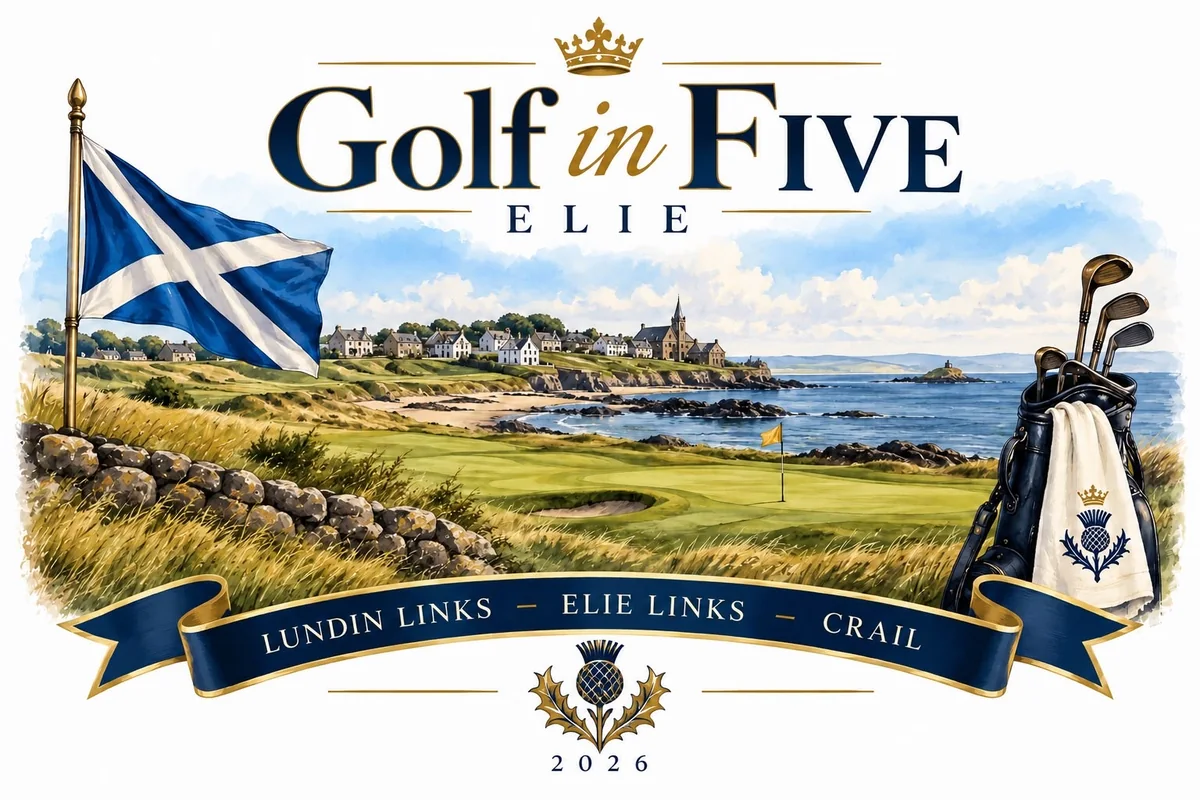
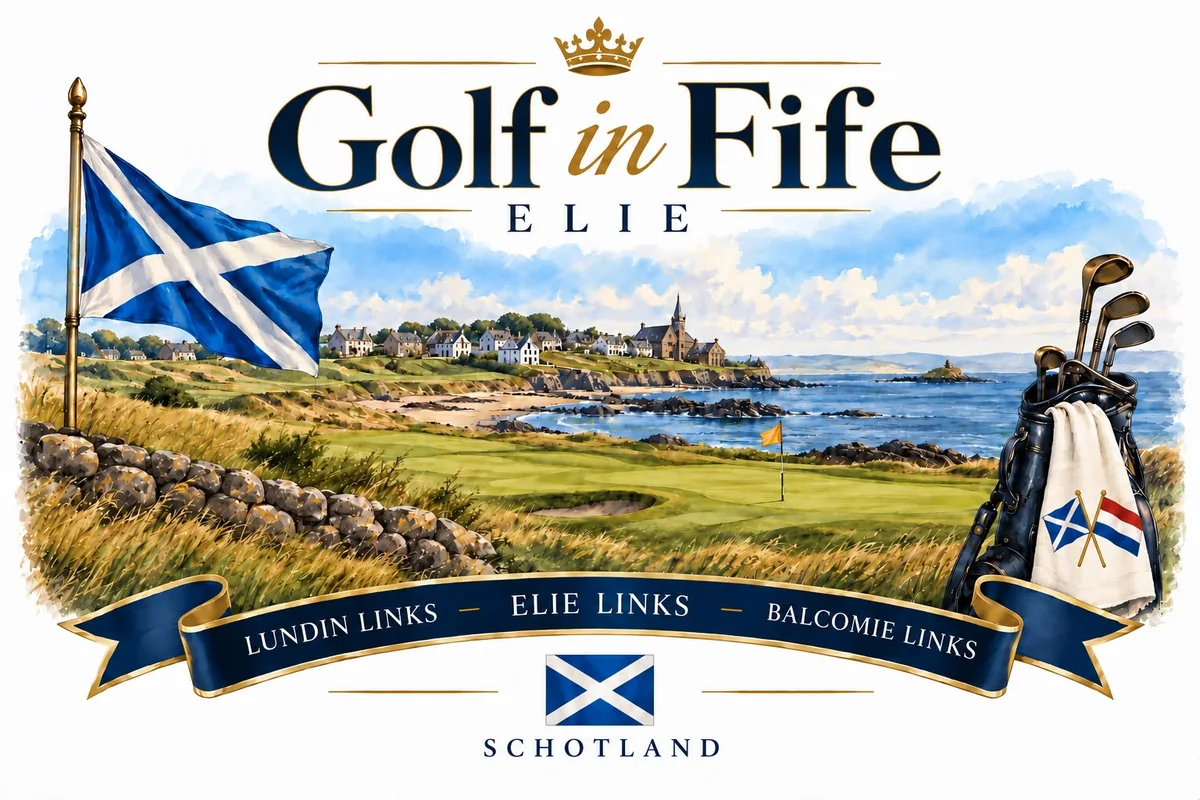
Add files via upload

diff --git a/index.html b/index.html
@@ -7,12 +7,12 @@
 <meta name="apple-mobile-web-app-capable" content="yes">
 <meta name="mobile-web-app-capable" content="yes">
 <meta name="apple-mobile-web-app-status-bar-style" content="black-translucent">
-<meta name="apple-mobile-web-app-title" content="Golf in Five">
+<meta name="apple-mobile-web-app-title" content="Golf in Fife">
 <meta name="format-detection" content="telephone=no">
 <link rel="manifest" href="manifest.webmanifest">
 <link rel="icon" href="favicon.png" type="image/png">
 <link rel="apple-touch-icon" href="apple-touch-icon.png">
-<title>Golf in Five</title>
+<title>Golf in Fife</title>
 <link rel="preconnect" href="https://fonts.googleapis.com">
 <link rel="preconnect" href="https://fonts.gstatic.com" crossorigin>
 <link href="https://fonts.googleapis.com/css2?family=Cormorant+Garamond:ital,wght@0,500;0,600;0,700;1,500;1,600&family=Jost:wght@400;500;600&display=swap" rel="stylesheet">
@@ -462,7 +462,7 @@ input.t,select.t{width:100%;border:1px solid var(--hair);border-radius:10px;padd
   <div class="top-in">
     <div class="brand"><svg class="hflag" viewBox="0 0 64 48" role="img" aria-label="Schotse vlag"><defs><clipPath id="fc"><path d="M8 7C21 2.5 34 11 60 6.5V35C34 39.5 21 31 8 35.5Z"/></clipPath><linearGradient id="fs" x1="0" x2="1" y1="0" y2="0"><stop offset="0" stop-color="#000" stop-opacity="0"/><stop offset=".32" stop-color="#000" stop-opacity=".16"/><stop offset=".6" stop-color="#fff" stop-opacity=".14"/><stop offset=".85" stop-color="#000" stop-opacity=".12"/><stop offset="1" stop-color="#000" stop-opacity="0"/></linearGradient></defs><rect x="4.6" y="4" width="2.6" height="42" rx="1.2" fill="#C9A34A"/><circle cx="5.9" cy="3.6" r="2.4" fill="#D9B45A"/><g clip-path="url(#fc)"><rect x="8" y="0" width="52" height="42" fill="#005EB8"/><path d="M8 7L60 35M60 6.5L8 35.5" stroke="#fff" stroke-width="6.5"/><rect x="8" y="0" width="52" height="42" fill="url(#fs)"/></g><path d="M8 7C21 2.5 34 11 60 6.5V35C34 39.5 21 31 8 35.5Z" fill="none" stroke="#fff" stroke-width="1.1" stroke-opacity=".9"/></svg>
 <div>
-      <h1 style="white-space:nowrap">Golf in Five</h1>
+      <h1 style="white-space:nowrap">Golf in Fife</h1>
       <div class="sub">Fife, 2–4&nbsp;oktober 2026</div>
     </div></div>
     <button class="pill" id="sync" aria-live="polite"><i></i><span>Laden</span></button>
@@ -701,13 +701,14 @@ function matchState(m, r){
   if (!done && thru===18){ done=true; winner = up>0?'A':up<0?'B':'H'; text = up ? `${Math.abs(up)} up` : 'Gelijk'; }
   if (!done) text = thru ? (up ? `${Math.abs(up)} up` : 'AS') : '';
   const leader = up>0?'A':up<0?'B':(thru?'H':null);
-  const pts = done ? (winner==='A'?[1,0]:winner==='B'?[0,1]:[.5,.5]) : [0,0];
-  const proj = done ? pts : (leader==='A'?[1,0]:leader==='B'?[0,1]:leader==='H'?[.5,.5]:[0,0]);
+  const w = m.type==='fourball' ? 2 : 1;   /* elke speler van het winnende duo levert 1 punt op */
+  const pts = done ? (winner==='A'?[w,0]:winner==='B'?[0,w]:[w/2,w/2]) : [0,0];
+  const proj = done ? pts : (leader==='A'?[w,0]:leader==='B'?[0,w]:leader==='H'?[w/2,w/2]:[0,0]);
   return {valid:true, thru, up, done, winner, text, holes, leader, pts, proj, strokes};
 }
 function teamTotals(){
   let a=0,b=0,pa=0,pb=0,n=0,live=false;
-  [1,2,3].forEach(r=>matches(r).forEach(m=>{ const s=matchState(m,r); if (!s.valid) return; n++;
+  [1,2,3].forEach(r=>matches(r).forEach(m=>{ const s=matchState(m,r); if (!s.valid) return; n += m.type==='fourball'?2:1;
     a+=s.pts[0]; b+=s.pts[1]; pa+=s.proj[0]; pb+=s.proj[1]; if (s.thru && !s.done) live=true; }));
   return {a,b,pa,pb,n,live,need:n/2+0.5};
 }
@@ -762,7 +763,7 @@ function viewTeams(){
     <div class="rc-score num"><b style="color:${TEAMCOL.A}">${fmtPts(t.a)}</b><i></i><b style="color:${TEAMCOL.B}">${fmtPts(t.b)}</b></div>
     <div class="rc-bar"><span style="left:0;width:${pctA}%;background:${TEAMCOL.A}"></span><span class="pj" style="left:${pctA}%;width:${ppA}%;background:${TEAMCOL.A}"></span>
       <span style="right:0;width:${pctB}%;background:${TEAMCOL.B}"></span><span class="pj" style="right:${pctB}%;width:${ppB}%;background:${TEAMCOL.B}"></span><em></em></div>
-    <div class="rc-need">${t.n ? (t.a>=t.need ? `${esc(A)} wint de Golf in Five Cup` : t.b>=t.need ? `${esc(B)} wint de Golf in Five Cup` : `${fmtPts(t.need)} punten nodig voor de winst, ${t.n} te verdelen`) : 'Stel de teams en partijen in onder Beheer'}</div>
+    <div class="rc-need">${t.n ? (t.a>=t.need ? `${esc(A)} wint de Golf in Fife Cup` : t.b>=t.need ? `${esc(B)} wint de Golf in Fife Cup` : `${fmtPts(t.need)} punten nodig voor de winst, ${fmtPts(t.n)} te verdelen`) : 'Stel de teams en partijen in onder Beheer'}</div>
     ${t.live ? `<div class="rc-proj num">Live projectie ${fmtPts(t.pa)} – ${fmtPts(t.pb)}</div>` : ''}
   </div>`;
   [1,2,3].forEach(r=>{ const c=course(r), ms=matches(r), order=teamFlights(r).flat();
@@ -772,7 +773,7 @@ function viewTeams(){
       const tm = s.valid ? (s.done ? (s.winner==='H'?null:s.winner) : (s.leader==='A'||s.leader==='B') ? s.leader : null) : null;
       const pst = tm ? teamStyle(tm) : `--tc:${!s.valid?'#A9B6C6':s.thru?'#7F8B99':'#D3DCE7'};--tf:#fff;--tb:transparent`;
       const label = !s.valid ? 'Onvolledig' : s.done ? (s.winner==='H'?'Gelijk':s.text) : s.thru ? s.text : '–';
-      const sub = !s.valid ? '' : s.done ? (s.winner==='H'?'½ – ½':`${teamName(s.winner)} wint`) : s.thru ? `na ${s.thru}` : m.type==='fourball'?'Fourball':'Single';
+      const sub = !s.valid ? '' : s.done ? (s.winner==='H'?(m.type==='fourball'?'1 – 1':'½ – ½'):`${teamName(s.winner)} +${m.type==='fourball'?2:1}`) : s.thru ? `na ${s.thru}` : m.type==='fourball'?'Fourball':'Single';
       const wA = s.done && s.winner==='A', wB = s.done && s.winner==='B';
       h += `<button class="rc-m" data-act="rcexp" data-v="${key}">
         <span class="rc-p ${wB?'lost':''} ${wA?'won':''}" style="--ink:${TEAMCOL.A}">${sideNames(m.a).map(esc).join('<br>')||'–'}</span>
@@ -791,7 +792,7 @@ function viewTeams(){
   ir.forEach(x=>{ h += `<button class="lrow ir t${x.t}" data-act="openp" data-p="${x.p.id}"><span class="pos">${anyDone?x.pos:''}</span>
       <span class="nm">${esc(x.p.name)}<small><b class="tname" style="color:${TEAMCOL[x.t]}">${esc(teamName(x.t))}</b>, ${x.n} ${x.n===1?'partij':'partijen'}${x.n?`, holes ${x.diff>0?'+':''}${x.diff}`:''}${x.live?', nu bezig':''}</small></span>
       <span class="wgv num">${x.w}-${x.h}-${x.l}</span><span class="pts num">${fmtPts(x.pts)||'0'}</span></button>`; });
-  h += `</div><p class="tiny muted" style="margin:8px 2px 0">Winst is 1 punt, gelijk ½. Bij gelijke punten telt het aantal overwinningen en daarna het holesaldo.</p>`;
+  h += `</div><p class="tiny muted" style="margin:8px 2px 0">Iedere speler scoort 1 punt voor een gewonnen partij en ½ bij gelijkspel. Deze punten vormen samen de teamstand. Bij gelijke punten telt het aantal overwinningen en daarna het holesaldo.</p>`;
   const enc = encounters(), TA=teamPlayers('A'), TB=teamPlayers('B');
   if (TA.length && TB.length){
     h += `<h2>Iedereen tegen iedereen</h2><div class="h2h"><table><thead><tr><th class="corner"></th>${TB.map(b=>`<th class="colB">${esc(first(b.name))}</th>`).join('')}</tr></thead><tbody>`;
@@ -921,15 +922,16 @@ function viewPlayers(){
   const ps = players();
   if (!ps.length) return `<h2>Spelers</h2><div class="card">Er zijn nog geen spelers. Voeg ze toe onder Beheer.</div>`;
   const rk = ranking('tot'), any = rk.some(r=>r.main>0 || r.rs.some(x=>x.thru));
-  let h = `<h2>Flightindeling</h2><p class="small muted" style="margin:-4px 2px 10px">Zoals vastgesteld door de beheerder. Wijzigingen verschijnen hier direct.</p>${[1,2,3].map(flightCard).join('')}`;
-  if (isTeams()) h += `<details class="fold card fmt-card"><summary>Wat is een fourball en wat is een single?</summary>${FORMAT_HELP}</details>`;
-  h += `<h2>Spelers</h2><div class="pgrid">`;
+  let h = `<h2>Spelers</h2><div class="pgrid">`;
   rk.sort((a,b)=>(a.p.sort||0)-(b.p.sort||0)).forEach(r=>{
     h += `<button class="pcard" data-act="openp" data-p="${r.p.id}"><span class="mono"${monoStyle(r.p.id)}>${esc(initials(r.p.name))}</span>
       <div class="pn">${esc(r.p.name)}</div><div class="ps">${isTeams()&&teamOf(r.p.id)?`<b class="tname" style="color:${TEAMCOL[teamOf(r.p.id)]}">${esc(teamName(teamOf(r.p.id)))}</b>, `:''}handicap ${fmtHcp(r.p.hcp)}</div>
       <div class="pp">${any ? `${ordinal(r.pos)} plaats, ${r.main} punten` : `PH ${[1,2,3].map(x=>playingHcp(r.p,x)).join(' / ')}`}</div></button>`;
   });
-  return h + `</div><p class="tiny muted" style="margin:10px 2px">PH is de playing handicap op Lundin, Elie en Crail.</p>`;
+  h += `</div><p class="tiny muted" style="margin:10px 2px">PH is de playing handicap op Lundin, Elie en Crail.</p>`;
+  h += `<h2>Flightindeling</h2><p class="small muted" style="margin:-4px 2px 10px">Zoals vastgesteld door de beheerder. Wijzigingen verschijnen hier direct.</p>${[1,2,3].map(flightCard).join('')}`;
+  if (isTeams()) h += `<details class="fold card fmt-card"><summary>Wat is een fourball en wat is een single?</summary>${FORMAT_HELP}</details>`;
+  return h;
 }
 function viewProfile(p){
   const rk = ranking('tot'), me = rk.find(r=>r.p.id===p.id), any = rk.some(r=>r.rs.some(x=>x.thru));
@@ -1015,7 +1017,7 @@ function matchCard(p, r){
 /* ---- Programma ---- */
 const LINKS_SVG = `<svg viewBox="0 0 320 120" fill="none" stroke="currentColor" stroke-width="1.2"><path d="M0 92 C40 80 70 86 104 78 S170 66 208 74 S280 86 320 76" opacity=".9"/><path d="M0 104 C50 96 96 100 140 94 S230 86 320 92" opacity=".55"/><path d="M0 114 C60 110 120 112 180 108 S270 104 320 108" opacity=".35"/><path d="M226 74 V26"/><path d="M226 27 L248 34 L226 41" fill="currentColor" stroke="none"/><path d="M20 60 h60 M34 54 h34" opacity=".35"/></svg>`;
 function viewProg(){
-  let h = `<div class="hero"><img src="hero.webp" alt="Golf in Five, Elie. Lundin Links, Elie Links en Crail, 2026" width="1200" height="800"></div>
+  let h = `<div class="hero"><img src="hero.webp" alt="Golf in Fife, Elie. Lundin Links, Elie Links en Balcomie Links, Schotland" width="1200" height="800"></div>
   <p class="lead" style="text-align:center;margin:8px 6px 4px">Zes man, drie dagen, drie historische linksbanen en 54 holes in het Kingdom of Fife. Met de Dunhill Links als toegift.</p>
   <h2>Het weekend</h2>
   <div class="tl">
@@ -1055,13 +1057,14 @@ function viewProg(){
     <p>Elke dag speelt één flight een fourball (2 tegen 2) en één flight een single (1 tegen 1). Over drie dagen speelt iedereen minstens één keer tegen iedere tegenstander.</p>
     <p><b>Fourball:</b> twee tegen twee, de beste nettoscore van elk duo telt per hole.</p>
     <p><b>Single:</b> één tegen één, de laagste nettoscore wint de hole.</p>
+    <p>Punten: elke speler die zijn partij wint levert 1 punt op, dus een gewonnen fourball is 2 punten en een gewonnen single 1 punt. Gelijk is delen. In totaal 9 punten over drie dagen, 5 punten is genoeg voor de cup.</p>
     <p style="margin-bottom:0">Matchplay met volledige handicapverrekening: de laagste speler in de partij speelt van 0, de anderen krijgen het volledige verschil in playing handicap. Een streep verliest de hole. De individuele Stableford loopt gewoon mee.</p></div>`;
   return h;
 }
 const FORMAT_HELP = `<div class="fmt-help">
   <div><b>Fourball</b><p>Twee tegen twee. Iedereen speelt zijn eigen bal; per hole telt alleen de beste nettoscore van elk duo. Het duo met de laagste van die twee scores wint de hole. Zo kan je maat je redden als jij een hole verknoeit. Volledige handicap: de laagste van de vier speelt van 0, de anderen krijgen het volledige verschil.</p></div>
   <div><b>Single</b><p>Eén tegen één. Wie op een hole de laagste nettoscore heeft, wint die hole. Volledige handicap: de laagste speelt van 0, de ander krijgt het hele verschil.</p></div>
-  <div><b>Matchplay, hoe tel je?</b><p>Je speelt om holes, niet om slagen. <i>2 up</i> betekent twee holes voor, <i>AS</i> (all square) staat gelijk. Een partij is beslist als je meer holes voor staat dan er nog te spelen zijn: <i>3&amp;2</i> is drie holes voor met nog twee te gaan. Een streep verliest de hole. Een gewonnen partij levert je team 1 punt op, gelijkspel ½ punt. Voor het individuele klassement krijgt ieder lid van het winnende duo of de winnende single 1 punt.</p></div>
+  <div><b>Matchplay, hoe tel je?</b><p>Je speelt om holes, niet om slagen. <i>2 up</i> betekent twee holes voor, <i>AS</i> (all square) staat gelijk. Een partij is beslist als je meer holes voor staat dan er nog te spelen zijn: <i>3&amp;2</i> is drie holes voor met nog twee te gaan. Een streep verliest de hole. Elke speler die zijn partij wint levert het team 1 punt op. Een gewonnen fourball is dus 2 punten, een gewonnen single 1 punt. Bij een gelijke partij worden de punten gedeeld. Over drie dagen zijn er 9 punten te verdelen; met 5 punten heb je de cup.</p></div>
   <div><b>Iedereen tegen iedereen</b><p>Elke dag één fourball en één single. De indeling rouleert zo dat je na drie dagen tegen alle drie de tegenstanders hebt gespeeld.</p></div>
 </div>`;
 function flightCard(r){
@@ -1212,7 +1215,10 @@ function viewAdmin(){
 
   h += `<h2>Gegevens</h2><div class="card">
     <p class="small">Laatste synchronisatie: ${state.lastSync?new Date(state.lastSync).toLocaleString('nl-NL'):'nog niet'}. Wachtende scores: ${Object.keys(state.outbox).length}.</p>
-    <div class="btns"><button class="btn sm" data-act="syncnow">Nu synchroniseren</button><button class="btn sm red" data-act="resetscores">Alle scores wissen</button></div>
+    <div class="btns col"><button class="btn sm" data-act="syncnow">Nu synchroniseren</button>
+      <button class="btn sm red" data-act="resetscores">Alle scores wissen</button>
+      <button class="btn sm red" data-act="resetall">Alles opschonen: scores, nearest, longest en controle</button></div>
+    <p class="tiny muted">Handig om te oefenen met de app. De spelers, teams, partijen en baangegevens blijven staan, en er ligt altijd nog een automatische back-up.</p>
     <label class="f" for="newpin">Nieuwe pincode</label><div class="row2"><input class="t" id="newpin" inputmode="numeric"><button class="btn sm alt" data-act="setpin">Pincode opslaan</button></div>
     <div class="btns"><button class="btn sm alt" data-act="lock">Beheer sluiten</button></div></div>`;
   return h;
@@ -1314,6 +1320,9 @@ document.addEventListener('click', async e=>{
         if (a==='bdl') downloadJson(d, 'golf-in-fife-backup-'+v); else await restoreData(d); }catch(err){ toast('Back-up ophalen lukt niet'); } break;
     case 'restore': $('#restorefile').click(); break;
     case 'syncnow': sync(true); break;
+    case 'resetall': if (confirm('Alle scores, dagprijzen en controlemarkeringen wissen? Spelers, teams en partijen blijven staan.')){
+        state.scores={}; state.outbox={}; delete state.settings.prizes; delete state.settings.resolved; ui.log=null;
+        state.op='resetscores'; markDirty('settings'); render(); sync(true); toast('Alles opgeschoond'); } break;
     case 'resetscores': if (confirm('Alle scores van alle rondes wissen? Dit kan niet ongedaan worden, maak eerst een back-up.')){ state.scores={}; state.outbox={}; state.op='resetscores'; save(); render(); sync(true); } break;
     case 'setpin': { const np=$('#newpin').value.trim(); if (np.length<4){ toast('Kies minimaal 4 cijfers'); break; } state.settings.pin=np; markDirty('settings'); toast('Pincode opgeslagen'); render(); break; }
   }
@@ -1382,7 +1391,7 @@ async function restoreFrom(file){
 }
 async function restoreData(d){
   try{
-    if (d.app!=='golf-in-fife' || !Array.isArray(d.players)) throw new Error('Dit is geen Golf in Five back-up.');
+    if (d.app!=='golf-in-fife' || !Array.isArray(d.players)) throw new Error('Dit is geen Golf in Fife back-up.');
     if (!confirm(`Back-up van ${new Date(d.exported_at).toLocaleString('nl-NL')} terugzetten? Alle huidige gegevens worden vervangen.`)) return;
     const now = new Date().toISOString();
     state.players = d.players; state.settings = d.settings || {}; state.scores = {}; state.outbox = {};

diff --git a/sw.js b/sw.js
@@ -1,5 +1,5 @@
 // Golf in Fife – service worker: app keeps opening without signal
-const CACHE = 'gif-v21';
+const CACHE = 'gif-v23';
 const SHELL = ['./', './index.html', './manifest.webmanifest', './logo.webp', './hero.webp', './favicon.png', './apple-touch-icon.png', './icon-192.png'];
 
 self.addEventListener('install', e => {
